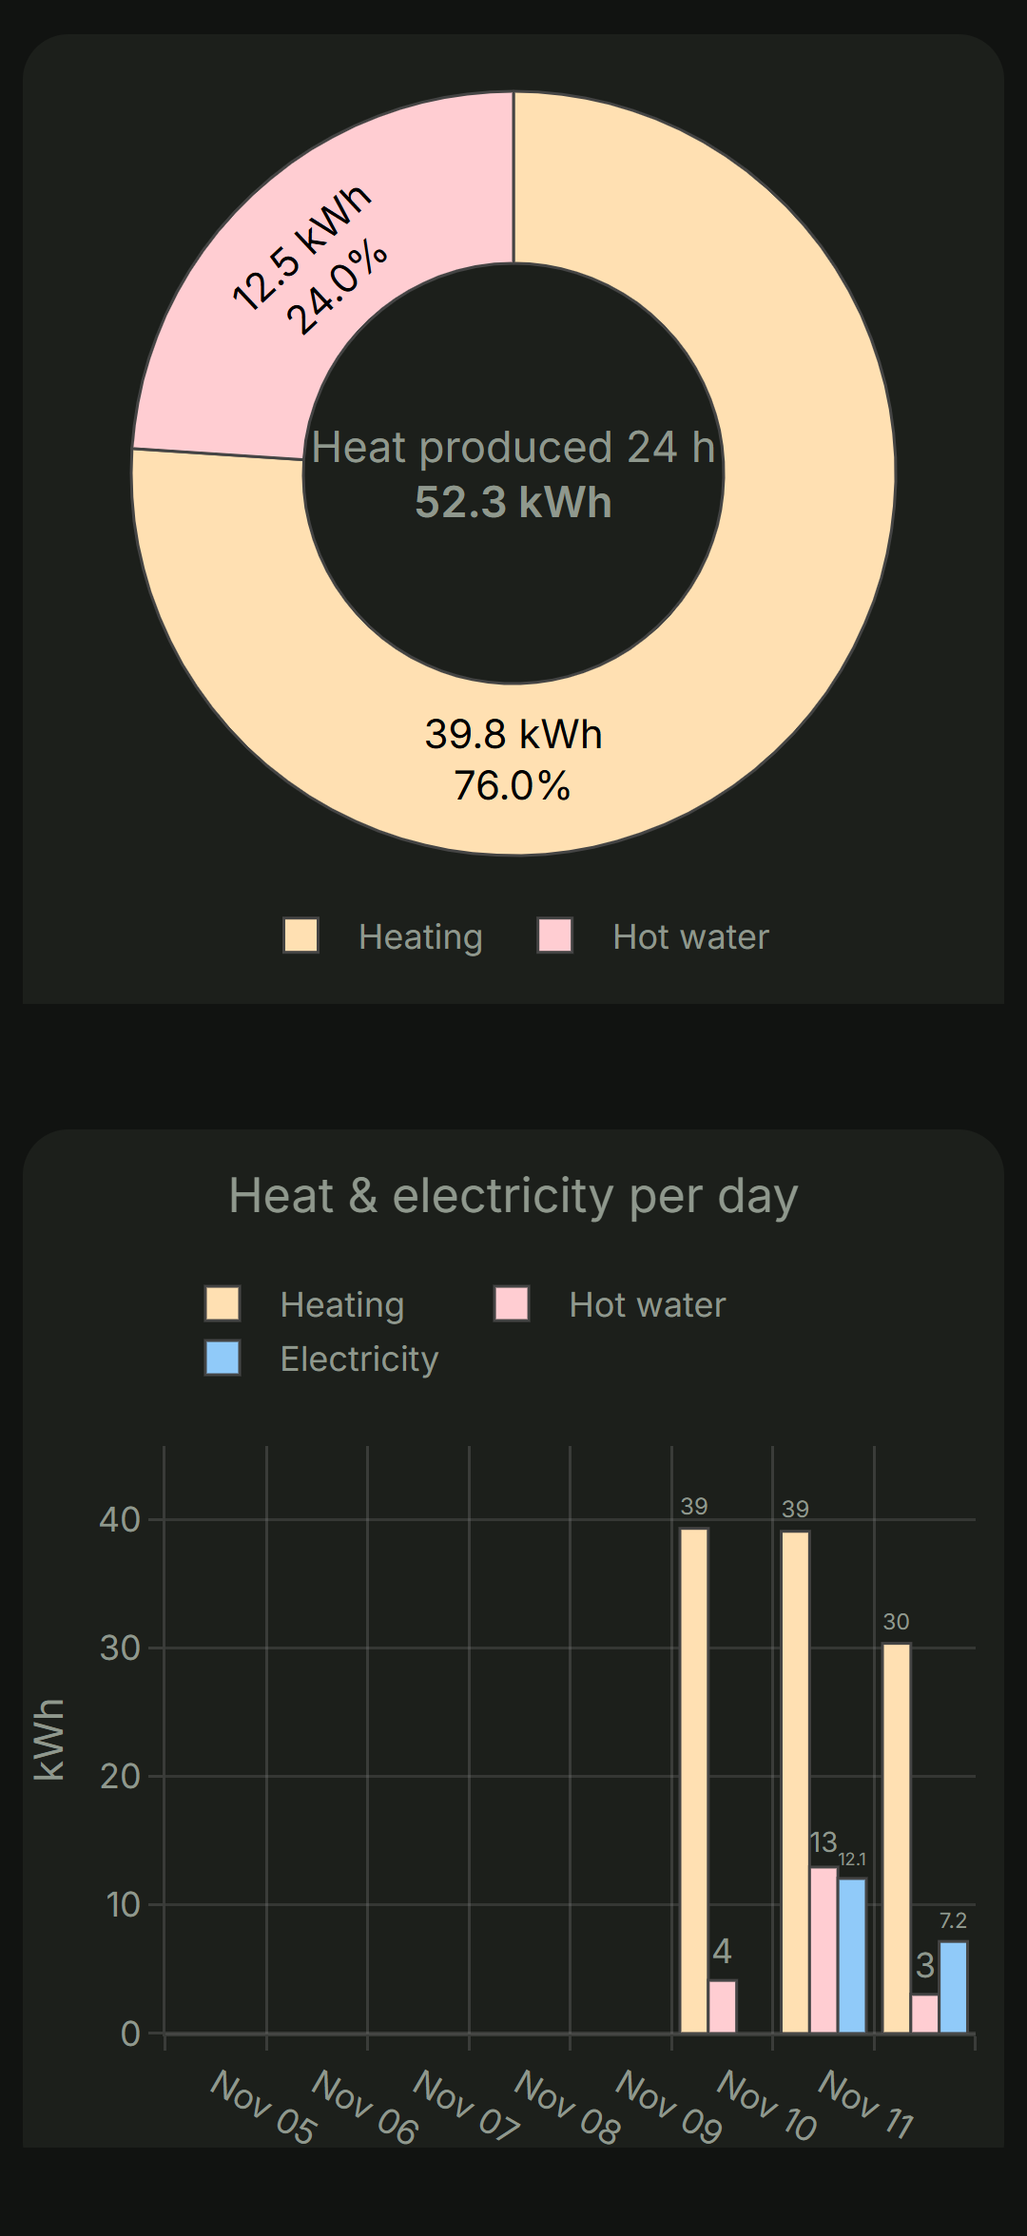
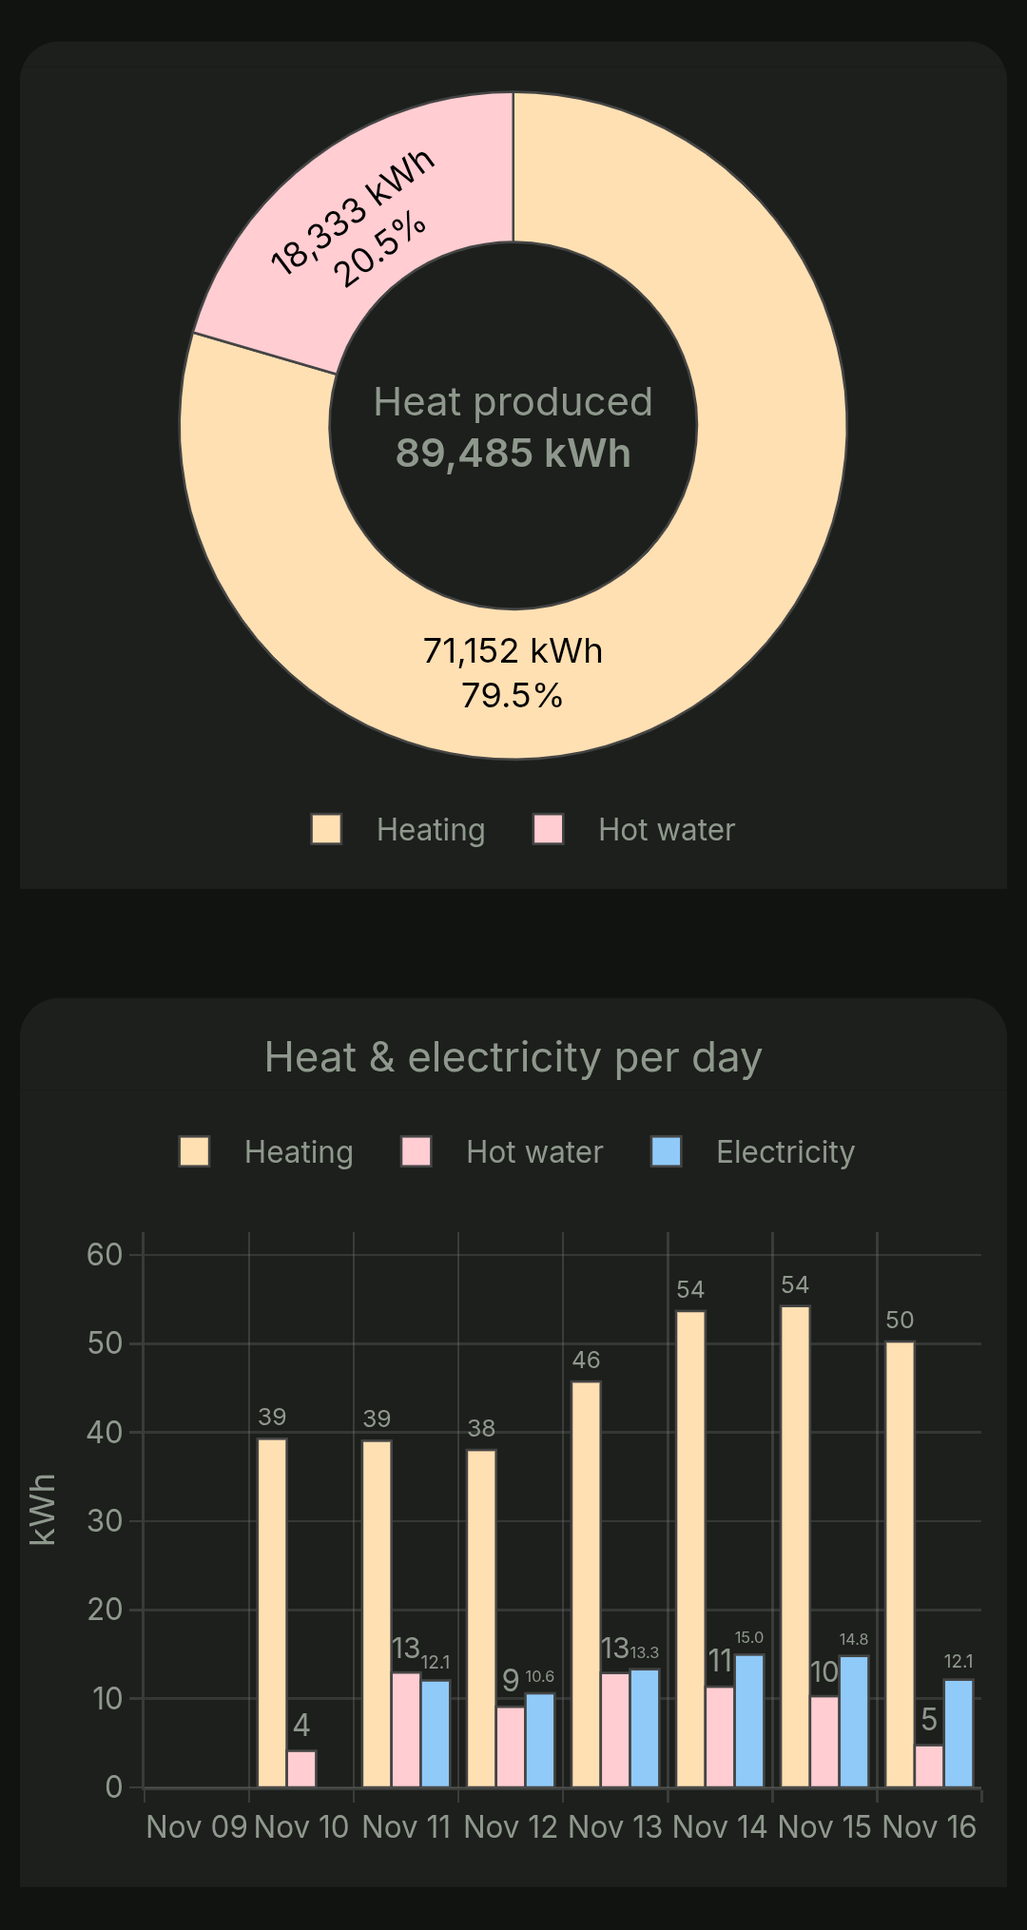
Add Shelly Pro 3EM / measured COP guide and new dashboard screenshots
- docs/7-electricity-cop.md: step-by-step guide for the electricity meter
  (wiring the Shelly Pro 3EM, adding it to Home Assistant, installing and
  adapting the energy package, how the split and the COP sensors work,
  how to read the numbers)
- README, docs 3/4/6 link to the new guide; README lists the package
- Dashboard screenshots retaken from the current view (COP per day as line
  chart with 7-day averages, electricity ring in the 24 h donut, heat and
  electricity per day); new fifth screenshot for the last 24 h and
  operating data

diff --git a/docs/7-electricity-cop.md b/docs/7-electricity-cop.md
@@ -1,0 +1,107 @@
+# 7 · Electricity meter and measured COP (Shelly Pro 3EM)
+
+The WPS reports the **heat** it produces (`STATS_ENERGY_OUTPUT_*`), but it has **no electricity measurement**: the current, voltage and frequency parameters read 0. Without a meter you only get the COP **estimated** from the datasheet curves (see [6 · Pump behaviour](6-pump-behaviour.md#cop-estimate)).
+
+With an electricity meter in the pump's supply you get the **real COP** = heat ÷ electricity, split by heating, hot water and standby:
+
+| Entity | Meaning |
+|---|---|
+| `sensor.wps_cop_last_run` | COP of the last compressor run (start → 60 s after stop). Attributes: `mode` (heating / hot_water / mixed), `minutes`, `heat_kwh`, `electricity_kwh` |
+| `sensor.wps_cop_heating_today` / `_hot_water_today` | Heat ÷ electricity today while the compressor runs in that mode |
+| `sensor.wps_cop_today` | All heat ÷ all electricity today, **standby included** (what you actually pay for) |
+| `sensor.wps_electricity_heating` / `_hot_water` / `_standby` | Lifetime kWh per mode, for the Energy dashboard and the daily charts |
+| `sensor.wps_electricity_today` | Electricity today |
+
+On the dashboard this fills the **Coefficient of performance** section and the electricity bars in **Heat & electricity per day**:
+
+<img src="Pictures/HA_example_3.png" alt="Measured power, electricity and COP; COP per day measured vs. estimated with 7-day averages" width="320">
+
+The COP-per-day chart shows the measured COP as strong lines, the datasheet estimate as faint dotted lines (the gap between them is tinted), and the **7-day average** per mode as triangles on the right y-axis (heat ÷ electricity over the last 7 days, i.e. energy-weighted).
+
+## 1 · Hardware
+
+The reference installation uses a **Shelly Pro 3EM** (DIN rail, three current transformers, LAN or Wi-Fi). Any meter that gives Home Assistant a **power** sensor (W) and a lifetime **energy** sensor (kWh, `total_increasing`) works too, e.g. a Shelly 3EM (Gen 1), a Shelly Pro EM for a single-phase pump, or a Modbus meter. Only the entity IDs change.
+
+> ⚠ **This work is done in the distribution board at 230/400 V. Let an electrician install the meter.**
+
+1. **Where:** in the distribution board, on the circuit that feeds the heat pump (WPS 8K-1: 3 × 400 V).
+2. **Current transformers:** one clamp per phase (L1, L2, L3) around the conductors **going to the pump**, with the arrow on the clamp pointing towards the pump (direction of energy flow). Clamp phase *n* to CT input *n*.
+3. **Voltage taps:** L1/L2/L3/N of the Shelly to the **same phases** as the matching clamps. A clamp on L2 with the voltage of L1 gives wrong (often negative or much too small) power.
+4. **Power for the Shelly:** from its own small breaker, not behind the pump's breaker, so it keeps counting when the pump circuit is off.
+5. **Everything the pump draws must pass through the clamps.** If your pump has a separate supply (e.g. for the electric heater or the control circuit), put it through the clamps as well, or that energy is missing from the COP. The reference installation draws ~13 W in standby through the meter.
+
+Check after the installation (Shelly web UI or app, compressor running):
+
+- all three phases show **positive** power; a negative phase means the clamp is reversed or on the wrong phase,
+- the total roughly matches the pump's datasheet power at the current operating point (WPS 8K-1: about 1.5–2 kW while heating, more for hot water).
+
+**Device profile:** a Shelly Pro 3EM must be in the **triphase** profile (the default). Only that profile has the *total* active power/energy entities the package uses.
+
+## 2 · Add the Shelly to Home Assistant
+
+1. **Settings → Devices & services**: the Shelly is usually discovered automatically, otherwise **Add integration → Shelly** and enter its IP address.
+2. Optionally give it a name and an area. The entity IDs follow from both. The reference installation has the device name "WPS 8K1 3EM Pro" in area "Haus", so the two entities used are:
+
+   | Used for | Entity in the reference installation |
+   |---|---|
+   | total active **power** (W) | `sensor.haus_wps_8k1_3em_pro_power` |
+   | total active **energy** (kWh, lifetime) | `sensor.haus_wps_8k1_3em_pro_energy` |
+
+   Find yours with `python tools/ha_entities.py list 3em` or under **Settings → Entities**.
+3. **Keep the database small.** The Shelly reports every few seconds; its per-phase and apparent-power sensors alone wrote ~33,000 rows per day here. Only the total power and energy are used. Disable the rest under **Settings → Entities** (select → *Disable*); disabled entities are neither processed nor stored. (Enable the per-phase sensors temporarily when you want to check the wiring or look at the electric heater.)
+
+## 3 · Install the package
+
+[`homeassistant/wps-energy-package.yaml`](../homeassistant/wps-energy-package.yaml) contains everything: the energy split, the daily counters, the COP sensors and the automation. It is a Home Assistant [package](https://www.home-assistant.io/docs/configuration/packages/), i.e. one file that you drop into `/config/packages/`.
+
+1. Enable packages once in `configuration.yaml` (if not already done):
+
+   ```yaml
+   homeassistant:
+     packages: !include_dir_named packages
+   ```
+
+2. Copy the file to `/config/packages/wps_energy.yaml` (File editor / Studio Code Server add-on, Samba share, or `scp`).
+3. **Adjust the entity IDs** with search & replace in that file:
+
+   | Search | Replace with your … |
+   |---|---|
+   | `sensor.haus_wps_8k1_3em_pro_power` | meter's total power entity |
+   | `sensor.haus_wps_8k1_3em_pro_energy` | meter's total energy entity |
+   | `haus_buderus_wps_` | pump prefix, e.g. `buderus_wps_` if your device has no area (see [4 · Home Assistant](4-home-assistant.md#adding-the-device)) |
+
+   From the pump the package needs `binary_sensor.…compressor_running`, `sensor.…diverter_valve`, `sensor.…heat_produced_heating` and `sensor.…heat_produced_hot_water`. All of them are in the default `tools/monitor_params.csv`; the heat counters are polled every 30 s so a single run can be measured.
+4. **Recorder:** the package has a `recorder: exclude:` block for its helper counters and two ESP32 diagnostics. It merges with the `recorder:` section of `configuration.yaml` as long as that one has **no `exclude:` of its own**. If it has, move the entries there and delete the block from the package.
+5. **Developer tools → YAML → Check configuration**, then **restart** Home Assistant. A reload is not enough: `utility_meter` is only set up at start.
+
+After the restart you should see `select.wps_electricity` (the current tariff: heating / hot_water / standby) and the `sensor.wps_*` entities. The COP sensors stay **unavailable** until at least 0.2 kWh were used in that mode today; `wps_cop_last_run` gets its first value 60 s after the next compressor stop.
+
+**Updating** the package later (e.g. from a new version of this repository): copy the file again, redo the search & replace, then **Developer tools → YAML → Template entities** reload is enough for changes to the template sensors; changes to `utility_meter` or `sensor:` need a restart.
+
+## 4 · How it works
+
+**Splitting the electricity.** An automation switches the tariff of one `utility_meter` (`select.wps_electricity`) whenever the compressor or the diverter valve changes (plus every 5 min as a safety net): compressor off → *standby*, valve towards the tank → *hot_water*, else *heating*. While the ESP32 is unavailable (reboot, OTA) the tariff is kept.
+
+The source of that meter is **not** the Shelly's kWh counter but the integral of its power (`sensor.wps_electricity_fast`, Riemann sum). The kWh counter only updates once a minute, and a utility meter books each update to the tariff active *when it arrives*, so up to a minute of energy landed in the wrong mode at every switch, 2–4 % of a ~1 kWh run. The power updates every ~16 s, and its integral matched the Shelly counter within 0.2 %.
+
+**COP today.** Daily `utility_meter`s for heat and electricity per mode, divided by each other. At midnight the daily meters reset ~30 ms apart; the COP sensors are only available when heat and electricity have the same `last_reset`, otherwise they would show 0.0 for a moment.
+
+**COP of the last run.** A trigger-based template sensor stores the heat and energy counters when the compressor starts and compares them 60 s after it stops (the last heat counter step arrives within ~20 s after a stop). The electricity includes the pumps' run-on in those 60 s. A run is classified *heating* or *hot_water* when more than 80 % of its heat went there, otherwise *mixed*. If the compressor restarts within the 60 s, both runs count as one.
+
+**Heat.** The heat comes from the pump's own counters (0.01 kWh resolution). The pump has no flow meter that we know of, so it is probably the pump's own calculation rather than a measurement; treat the absolute COP with some caution. Comparisons (day to day, heating vs. hot water, before/after a settings change) are reliable.
+
+## 5 · Reading the numbers
+
+- **Typical values** (WPS 8K-1, November, brine in ~8 °C): heating ~5, hot water ~3.5–3.8, overall incl. standby ~4.5.
+- **Overall COP higher than both mode COPs?** That is not a bug. Each day mixes heating (high COP) and hot water (low COP) in different shares. The 7-day average of the total can sit above the 7-day average of each mode when the days with more hot water had less heat overall.
+- **Measured vs. estimated.** The datasheet estimate only looks at brine and flow temperature. A persistent gap shows how your installation differs from the datasheet (circulation pumps, start-up losses, hydraulics).
+- **Single runs scatter more than days.** Short hot water top-ups (5–6 min) carry the start-up and run-on losses on very little heat.
+
+## Energy dashboard
+
+Add the pump to **Settings → Dashboards → Energy**:
+
+- *Electricity grid → individual devices*: `sensor.wps_electricity_heating`, `_hot_water`, `_standby` (or simply the Shelly energy entity),
+- heat: `sensor.<prefix>_buderus_wps_heat_produced_heating` and `…_hot_water` as further individual devices.
+
+Back to: [README](../README.md) · [4 · Home Assistant](4-home-assistant.md)

diff --git a/docs/4-home-assistant.md b/docs/4-home-assistant.md
@@ -45,17 +45,19 @@ The entity ID is derived from the `label` in `tools/monitor_params.csv`:
 | Section | Content |
 |---|---|
 | **Current status** | Tiles: compressor, operating mode, flow with setpoint, outdoor temperature. Hot water **gauge** with start/stop range and setpoint. |
-| **Energy** | Donut of the produced heat (heating vs. hot water, lifetime), a second donut for the **last 24 h**, heat and electricity **per day** |
+| **Energy** | Donut of the heat produced in the **last 24 h** (heating vs. hot water, with the electricity as outer ring and the COP per mode when a meter is installed), a second donut for the pump's **lifetime**, heat and electricity **per day** |
 | **Coefficient of performance** | Power, electricity today, COP of the last run / today / per mode (needs an electricity meter and the package below). Line chart of the COP per day: measured values as strong lines, the COP estimated from the datasheet curves (brine in GT10, flow GT8) as faint dotted lines, the gap between them tinted. On a second y-axis on the right, triangles mark the 7-day average per mode (heat ÷ electricity over the 7 days) |
 | **Heating curve** | The heating curve as configured in the pump, with today's operating point |
 | **Last 24 hours** | Temperature chart (brine out hidden by default, tap its legend entry to show it); **Operating data**: compressor runtime and starts, operating mode over 24 h |
 
 Screenshots of the reference installation (phone, dark theme):
 
-| Status, hot water, energy | Heat 24 h and per day | Estimated and measured COP | Heating curve, operating data |
-|---|---|---|---|
-| <img src="Pictures/HA_example_1.png" alt="Status, hot water gauge, lifetime heat donut" width="200"> | <img src="Pictures/HA_example_2.png" alt="Heat produced in the last 24 h, heat and electricity per day" width="200"> | <img src="Pictures/HA_example_3.png" alt="Estimated COP per day, measured power, electricity and COP" width="200"> | <img src="Pictures/HA_example_4.png" alt="Heating curve with switching band, compressor runtimes and starts" width="200"> |
-| Compressor, mode, flow with setpoint, brine. Hot water gauge with start/stop range. Heat produced over the pump's lifetime. | Heat produced in the last 24 h; heat and electricity per day. | COP estimated from the datasheet curves; measured power, electricity and COP (last run, today, per mode, per day). | The heating curve with today's operating point and the current start/stop band. Compressor runtimes and starts. (The 24 h history graphs are not shown.) |
+| Status, hot water, last 24 h | Heat per day | Coefficient of performance | Heating curve | Last 24 hours, operating data |
+|---|---|---|---|---|
+| <img src="Pictures/HA_example_1.png" alt="Status tiles, hot water gauge, heat and electricity of the last 24 h" width="170"> | <img src="Pictures/HA_example_2.png" alt="Lifetime heat donut, heat and electricity per day" width="170"> | <img src="Pictures/HA_example_3.png" alt="Measured power, electricity and COP; COP per day measured vs. estimated with 7-day averages" width="170"> | <img src="Pictures/HA_example_4.png" alt="Heating curve with switching band and operating point" width="170"> | <img src="Pictures/HA_example_5.png" alt="Temperatures of the last 24 h, compressor runtimes and starts, operating mode" width="170"> |
+| Compressor, mode, flow with setpoint, brine. Hot water gauge with start/stop range. Heat of the last 24 h with the electricity as outer ring and the COP per mode. | Heat produced over the pump's lifetime; heat and electricity per day. | Measured power, electricity and COP (last run, today, per mode). COP per day: measured vs. estimated from the datasheet curves, 7-day averages as triangles. | The heating curve with today's operating point and the current start/stop band; curve end points, parallel offset, flow setpoint. | Flow, hot water, outdoor and brine temperatures; compressor runtimes and starts; operating mode over 24 h. |
+
+The COP and electricity parts need an electricity meter, see [7 · Electricity meter and measured COP](7-electricity-cop.md).
 
 ### Requirements
 
@@ -145,7 +147,7 @@ Add `sensor.buderus_wps_heat_produced_heating` and `…_hot_water` under **Setti
 
 ### Electricity and measured COP (Shelly Pro 3EM)
 
-With an electricity meter in the pump's supply you get the real COP = heat ÷ electricity. [`homeassistant/wps-energy-package.yaml`](../homeassistant/wps-energy-package.yaml) is a ready-made [package](https://www.home-assistant.io/docs/configuration/packages/) for a Shelly Pro 3EM. Copy it to `/config/packages/`, adjust the entity IDs and restart Home Assistant. It provides:
+With an electricity meter in the pump's supply you get the real COP = heat ÷ electricity. [`homeassistant/wps-energy-package.yaml`](../homeassistant/wps-energy-package.yaml) is a ready-made [package](https://www.home-assistant.io/docs/configuration/packages/) for a Shelly Pro 3EM. **Step-by-step guide (wiring, integration, package, how it works): [7 · Electricity meter and measured COP](7-electricity-cop.md).** In short: copy it to `/config/packages/`, adjust the entity IDs and restart Home Assistant. It provides:
 
 | Entity | Meaning |
 |---|---|

diff --git a/README.md b/README.md
@@ -5,6 +5,7 @@ Read a **Buderus Logatherm WPS** ground-source heat pump (developed and tested o
 - an **ESP32** with its built-in CAN controller and a **SN65HVD230** transceiver (about €10 of hardware), powered from the pump's own 12 V,
 - **ESPHome** firmware that reads the parameters of the pump controller (the same requests a Buderus KM200 gateway or FHEM uses),
 - temperatures, compressor state, operating mode, hot water thresholds, heating curve, energy and runtime counters, an estimated COP,
+- optionally a **Shelly Pro 3EM** (or any electricity meter) for the **measured COP**: per run, per day, heating vs. hot water vs. standby, with 7-day averages,
 - a ready-made **Home Assistant dashboard**.
 
 No cloud, no KM200, no changes to the pump. The firmware only **reads**.
@@ -22,9 +23,9 @@ No cloud, no KM200, no changes to the pump. The firmware only **reads**.
 
 ## What it looks like
 
-| Home Assistant dashboard | | | | The adapter |
-|---|---|---|---|---|
-| <img src="docs/Pictures/HA_example_1.png" width="170" alt="Status, hot water, energy"> | <img src="docs/Pictures/HA_example_2.png" width="170" alt="Heat produced in 24 h and per day"> | <img src="docs/Pictures/HA_example_3.png" width="170" alt="Estimated and measured COP"> | <img src="docs/Pictures/HA_example_4.png" width="170" alt="Heating curve and compressor statistics"> | <img src="docs/Pictures/Hardware_wiring.jpg" width="200" alt="ESP32 + SN65HVD230 + buck converter"> |
+| Home Assistant dashboard | | | | | The adapter |
+|---|---|---|---|---|---|
+| <img src="docs/Pictures/HA_example_1.png" width="150" alt="Status, hot water gauge, heat and electricity in the last 24 h"> | <img src="docs/Pictures/HA_example_2.png" width="150" alt="Lifetime heat, heat and electricity per day"> | <img src="docs/Pictures/HA_example_3.png" width="150" alt="Measured COP, COP per day vs. estimate, 7-day averages"> | <img src="docs/Pictures/HA_example_4.png" width="150" alt="Heating curve with switching band"> | <img src="docs/Pictures/HA_example_5.png" width="150" alt="Temperatures of the last 24 h, compressor runtimes and starts"> | <img src="docs/Pictures/Hardware_wiring.jpg" width="180" alt="ESP32 + SN65HVD230 + buck converter"> |
 
 ## How it works
 
@@ -51,6 +52,7 @@ No cloud, no KM200, no changes to the pump. The firmware only **reads**.
 | 4 | [Home Assistant](docs/4-home-assistant.md) | Entities, dashboard, examples, helper tools |
 | 5 | [Protocol reference](docs/5-protocol.md) | KM273 CAN IDs, read requests, table format, broadcast frames |
 | 6 | [Pump behaviour](docs/6-pump-behaviour.md) | What we learned from the data: hot water logic, heating thresholds, display offsets |
+| 7 | [Electricity meter & measured COP](docs/7-electricity-cop.md) | Optional: Shelly Pro 3EM wiring, HA integration, energy package, real COP per run/day/mode |
 
 Quick start for the impatient (after the hardware is built and connected, see steps 1 and 2):
 
@@ -85,6 +87,7 @@ tools/
 homeassistant/
   wps-dashboard-view.yaml    the "Heat pump" dashboard view
   heatpump-status-card.yaml  example: compact status card for another view
+  wps-energy-package.yaml    optional HA package: electricity split + measured COP (Shelly Pro 3EM)
 km273_dictionary.csv         element table of a WPS 8K-1 (1792 parameters) + labels and notes
 data/                        raw element table dump of that pump (reference)
 docs/                        this documentation

diff --git a/docs/3-firmware.md b/docs/3-firmware.md
@@ -147,7 +147,7 @@ Besides one sensor per CSV line, the generator adds:
 | **CAN frame rate** | Diagnostics: received frames per second |
 | **CAN sniffer log** | Switch: logs every new/changed frame (off by default) |
 
-The COP is an **estimate** from the datasheet (`km273_cop.h`: COP over brine temperature for flow 35/45/55 °C), because the WPS has no electrical power measurement. For a real COP you need an electricity meter in the pump's supply.
+The COP is an **estimate** from the datasheet (`km273_cop.h`: COP over brine temperature for flow 35/45/55 °C), because the WPS has no electrical power measurement. For a real COP you need an electricity meter in the pump's supply, see [7 · Electricity meter and measured COP](7-electricity-cop.md).
 
 ### How the poller works
 

diff --git a/docs/6-pump-behaviour.md b/docs/6-pump-behaviour.md
@@ -78,4 +78,4 @@ It is only published while the compressor runs and from 60 s after a start or a 
 ## Energy counters
 
 - `STATS_ENERGY_OUTPUT_HEATING` + `_DHW` (raw × 0.01 kWh) add up to the total, and the averages match the 8 kW rating.
-- The pump only reports produced heat. For electricity and a real COP, add a meter in the supply.
+- The pump only reports produced heat. For electricity and a real COP, add a meter in the supply: [7 · Electricity meter and measured COP](7-electricity-cop.md).
